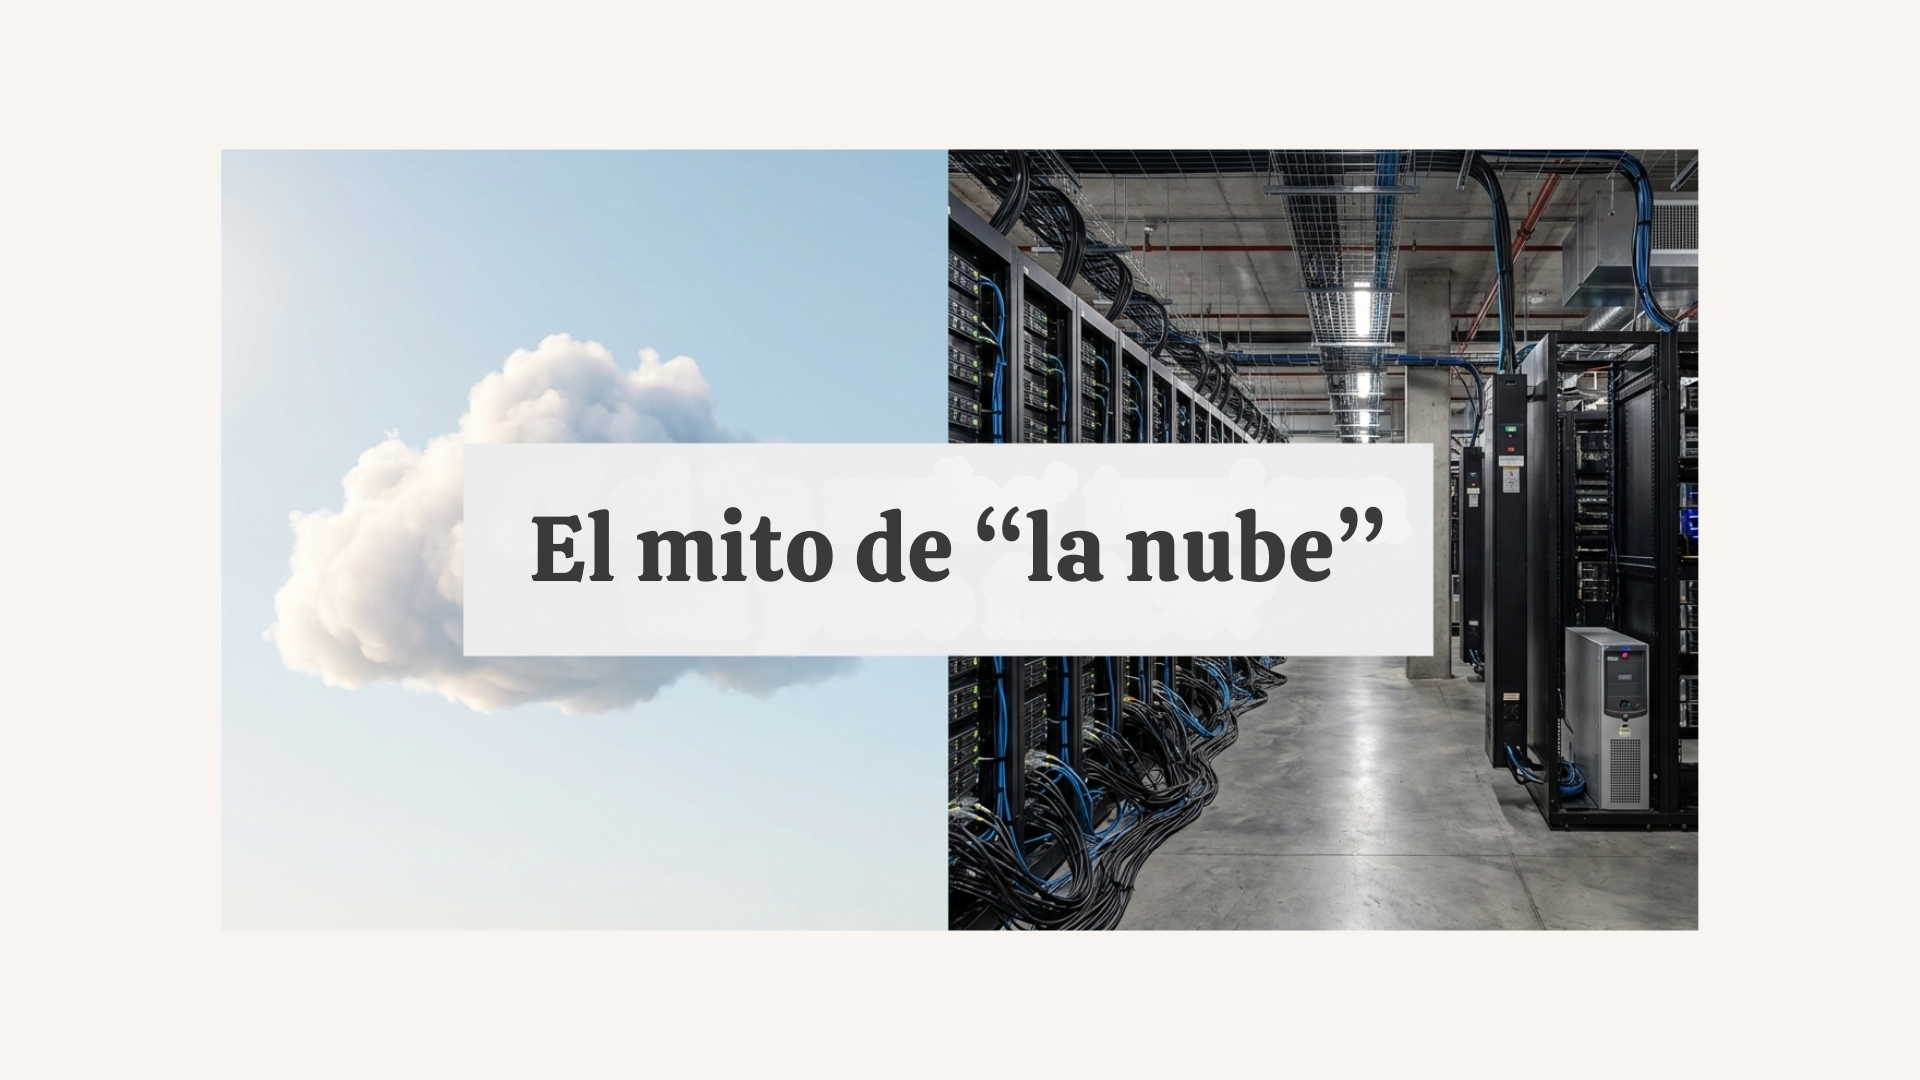
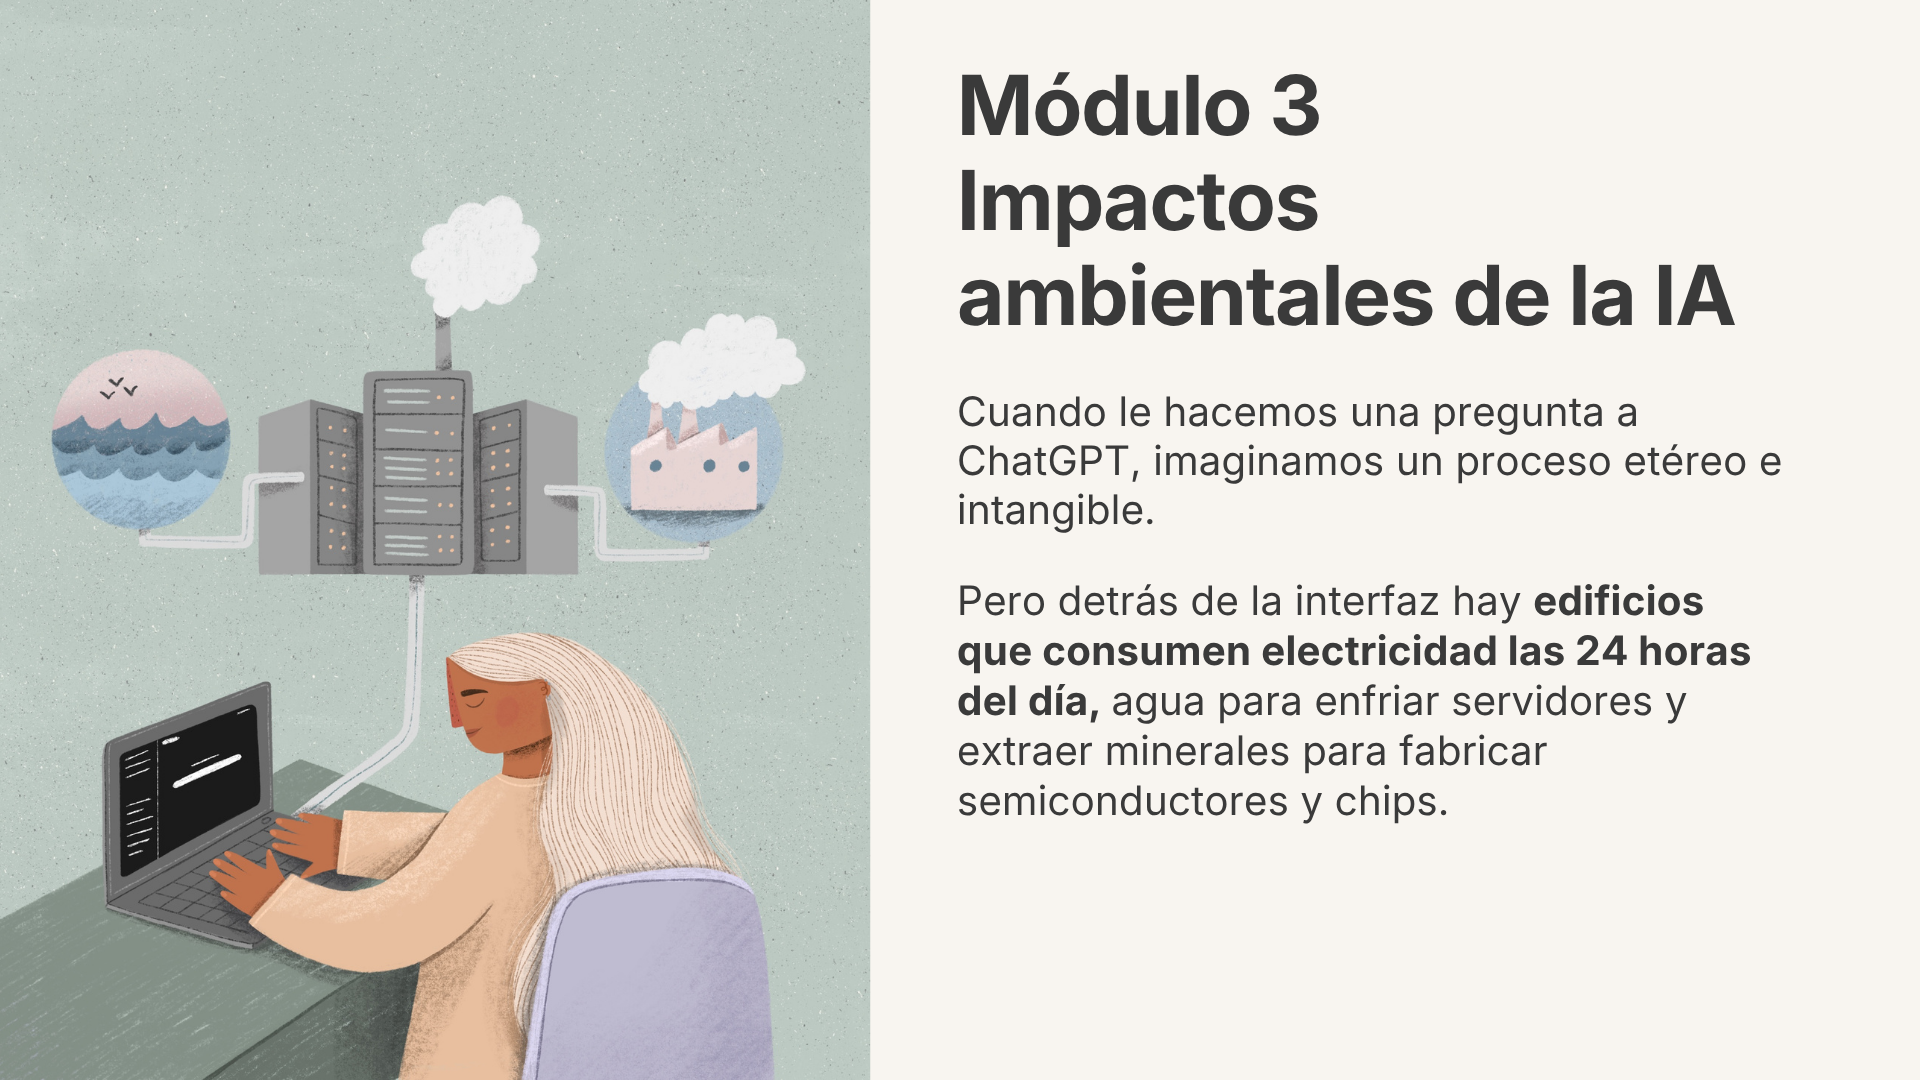
release(v2.1-m3): M3 Impactos ambientales disponible al publico
- Nuevo: docs/03-impactos-ambientales.md (audit completo, quiz energia centros de datos, checklist comprension, bloque Sasha Luccioni homologado, Acuerdo de Escazu + politica federal EE.UU. Trump 2025 en tabla)
- M2 actualizado: YouTube embed del Ep 2 Sesgos al final del modulo
- M1 actualizado: reorganizar imagen 00_Magia + assets 00 y 09 actualizados
- mkdocs.yml: M3 agregado al nav
- index.md: M3 cambiado de Proximamente a Disponible con link activo

diff --git a/docs/03-impactos-ambientales.md b/docs/03-impactos-ambientales.md
@@ -1,0 +1,274 @@
+# El mito de la nube: impactos ambientales de la IA
+
+!!! abstract "¿Cuál es la huella material de la IA?"
+    La IA no vive en una nube etérea: vive en edificios físicos que consumen **electricidad las 24 horas**, **agua para enfriar servidores** y **minerales extraídos en minas de todo el mundo**. Los centros de datos consumen ~1.5% del consumo eléctrico global y se proyecta que esa cifra se duplique para 2030.[^19] El costo no se distribuye igual: América Latina contribuye solo el 6.7% de las emisiones globales pero absorbe una parte importante de los costos ambientales de la infraestructura digital.[^25] **El objetivo de este módulo es ponerle cifras al “mito de la nube” (energía, agua, minerales, basura electrónica) y entender quién paga ese costo, cómo se distribuye y qué podemos hacer al respecto.**
+
+![El mito de la nube](images/09_MitoLaNube.png)
+
+## La infraestructura física detrás de lo digital
+
+Cuando la IA “aprende” o “responde”, todo ese proceso ocurre en edificios físicos conectados por cables submarinos. Casi el **100% del tráfico de internet** pasa por cables de fibra óptica tendidos en el fondo del océano.[^3] Esos cables conectan a los centros de datos, edificios que concentran la infraestructura informática necesaria para crear, ejecutar y proporcionar aplicaciones y servicios, entre ellos correr modelos de IA.[^35]
+
+!!! info "La demanda de centros de datos"
+    Existen aproximadamente **10,000 centros de datos en 164 países**.[^16] De estos, 1,189 son “hiperescala”, los más grandes, como los que operan Google, Amazon y Microsoft y la mitad de ellos (el 54%) están en Estados Unidos. América Latina tiene 251 centros de datos, concentrados en países como Brasil (37.2%), Chile (13.4%) y México (12.3%).[^17]
+
+Cada centro de datos requiere:
+
+- **Electricidad constante** para los servidores (las 24 horas, los 365 días del año)
+- **Agua** para los sistemas de enfriamiento
+- **Hardware** fabricado con minerales críticos como el galio, germanio, cobalto, litio, tantalio
+
+## Evaluar el ciclo de vida de la IA
+
+Para conocer la huella ambiental de la IA debemos considerar sus impactos a través de su ciclo de vida, que se compone de dos dimensiones, el software y hardware.[^15] El **ciclo de software** incluye la recolección de datos, el desarrollo de los modelos, entrenamiento, validación, despliegue, inferencia, mantenimiento y retiro. El **ciclo de hardware** abarca la producción de chips y GPUs, la construcción y operación de centros de datos, desde la extracción de materias primas, pasando por la manufactura y el transporte, hasta la operación, mantenimiento y disposición de basura electrónica.
+
+!!! warning "Los datos que tenemos (y los que no)"
+    Aunque existen estudios sobre el impacto ambiental de distintas etapas del ciclo de vida de la IA, **la investigación comprehensiva sigue siendo escasa**.[^15] Esto ha provocado la proliferación de estadísticas en medios de comunicación, muchas sin respaldo riguroso. Estimar con precisión el impacto ambiental de la IA es difícil por los retos de medición, particularmente la falta de datos sobre efectos indirectos. Para conocer los impactos en cada etapa y aspecto (minerales, energía, emisiones, agua y basura digital) se necesitan más y mejores datos.[^15] Los datos de este módulo son los mejores disponibles que pudimos encontrar, pero deben leerse con esa cautela.
+
+## ¿Cuánta energía consumen los centros de datos?
+
+En 2024, centros de datos a nivel mundial consumieron **415 TWh de electricidad,** que representa cerca del 1.5% del consumo eléctrico global. Para 2030, la Agencia Internacional de Energía proyecta que esta cifra se duplique, llegando a **945 TWh**.[^19] Esta cifra es ligeramente superior al consumo total de electricidad actual de todo Japón.[^19] Además, la energía necesaria para entrenar los modelos de frontera **se duplica cada año** (crecimiento de 2.1x anual), más rápido que las mejoras en eficiencia del hardware.[^37]
+
+El consumo de energía de los centros de datos es un problema. Pero el problema más profundo es **de dónde viene esa energía**. Casi la **mitad de la electricidad** que consumen los centros de datos en Estados Unidos proviene de centrales de combustibles fósiles.[^31] Cuando Meta anunció Hyperion, su centro de datos de IA en Luisiana, que consumirá **más del doble de energía que toda la ciudad de Nueva Orleans**, los reguladores aprobaron la construcción de **tres nuevas plantas de gas natural** para alimentarlo.[^31]
+
+<div class="quiz" data-correct="b" data-explanation="El problema m&aacute;s profundo es la fuente de la energ&iacute;a. Casi la mitad de la electricidad que consumen los centros de datos en EE.UU. viene de combustibles f&oacute;siles, y los reguladores ya est&aacute;n aprobando nuevas plantas de gas natural para alimentar centros como Meta Hyperion. La opci&oacute;n (a) trata el problema solo como escala, pero construir m&aacute;s plantas mueve el costo sin resolverlo. La opci&oacute;n (c) atiende un s&iacute;ntoma (eficiencia por consulta) en lugar de la causa estructural (la matriz energ&eacute;tica).">
+<p class="quiz-title">Ponte a prueba: En 2024 los centros de datos a nivel mundial consumieron <strong>415 TWh</strong> de electricidad (~1.5% del consumo global) y la AIE proyecta que esa cifra <strong>se duplique para 2030</strong>. Según el módulo, ¿cuál es el problema más profundo de este consumo?</p>
+<label class="quiz-option"><input type="radio" name="q-energia-centros" value="a"> La escala absoluta: para cubrir la demanda hay que construir más plantas eléctricas</label>
+<label class="quiz-option"><input type="radio" name="q-energia-centros" value="b"> De dónde viene esa electricidad: casi la mitad del consumo en EE.UU. proviene de combustibles fósiles</label>
+<label class="quiz-option"><input type="radio" name="q-energia-centros" value="c"> Que cada consulta individual a un modelo es muy ineficiente y debería optimizarse</label>
+<button class="quiz-check">Verificar</button>
+<div class="quiz-feedback"></div>
+</div>
+
+## ¿Cuánto contamina la IA?
+
+El sector TIC en su conjunto (centros de datos, redes, dispositivos) genera unas **700 millones de toneladas de CO2 equivalente (MtCO2e)** al año, lo que representa el **1.4% de las emisiones globales**.[^5] La Agencia Internacional de Energía (AIE) estima que los centros de datos son responsables de aproximadamente **180 millones de toneladas**, es decir, el **0.5% de las emisiones globales**.[^19] Puede parecer poco, pero la demanda energética de los centros de datos está creciendo rápidamente y se proyecta que se duplique para 2030.[^19][^30]
+
+!!! danger "Por qué cada emisión cuenta: el límite de los 1.5°C"
+    En 2024, las temperaturas globales superaron **1.5°C sobre niveles preindustriales durante 12 meses consecutivos**.[^13] Al ritmo actual, se proyecta alcanzar este umbral de forma permanente para **2029**.[^29] Para evitarlo, las emisiones de CO2 deben reducirse **45% para 2030 y alcanzar cero neto para 2050**, pero actualmente emitimos ~42 GtCO2 al año.[^2] La diferencia entre 1.5°C y 2°C significa **el doble de personas expuestas a sequías severas**, la pérdida de prácticamente **todos los arrecifes de coral**, y veranos árticos sin hielo.[^2] Por eso ese 0.5% no es “poco”: cada nueva fuente de emisiones cuenta, y la IA es una de las que más rápido crece.
+
+### ¿Cuánto contamina un modelo de lenguaje?
+
+Uno de los primeros estudios que puso el tema en la agenda pública fue *“Energy and Policy Considerations for Deep Learning in NLP”*, publicado en 2019. De acuerdo con esta investigación, entrenar un modelo NAS emitió **~284 toneladas de CO2**, equivalente a **cinco veces las emisiones de un auto durante toda su vida útil**, incluyendo su fabricación. Incluso entrenar un solo modelo BERT emitió tanto CO2 como un vuelo transatlántico.[^4]
+
+Un estudio posterior de Luccioni, Viguier y Ligozat (2022) demostró que la fuente de electricidad importa tanto o más que el tamaño del modelo.[^6] BLOOM (176B parámetros) consumió 433,196 kWh de energía, comparable a GPT-3. Pero porque se entrenó en Francia (donde el 70% de la electricidad es nuclear), emitió solo **25 toneladas de CO2** frente a las **502 toneladas de GPT-3** (entrenado con electricidad estadounidense). Si incluimos manufactura de hardware y consumo idle, el total de BLOOM sube a 50.5 toneladas, aun así, **10 veces menos que GPT-3**.[^6]
+
+??? example "Conoce más sobre Sasha Luccioni"
+    Sasha Luccioni es investigadora franco-canadiense y líder de clima en [Hugging Face](https://huggingface.co/sasha). Su trabajo ha sido pionero en medir las emisiones reales de modelos de IA: desde calcular la huella de carbono completa de BLOOM[^6] hasta demostrar que generar una imagen consume 1,450 veces más energía que clasificar un texto.[^14] Es una de las voces más visibles en la intersección de IA y cambio climático.
+
+La inferencia, es decir, cada vez que preguntamos algo a ChatGPT, representa más del 80% del consumo eléctrico total de la IA. Amazon estima que hasta el **90% de los costos de ML en producción** se deben a la inferencia, no al entrenamiento.[^5] Para modelos populares como ChatGPT, bastaron semanas o meses de uso para que las emisiones acumuladas por inferencia superaran las del entrenamiento.[^7]
+
+Las emisiones anuales por inferencia de un solo modelo (GPT-4o) se estiman entre **138,125 y 163,441 toneladas de CO2 equivalente por año**. [^20] Estas cifras son comparables a las
+emisiones anuales de 30,000 automóviles de gasolina o a las emisiones acumuladas de aproximadamente 2,300 vuelos transatlánticos entre Boston y Londres. [^20]
+
+Pero no todas las tareas de IA consumen lo mismo. Un estudio de Luccioni et al. (2024) midió el consumo de 88 modelos y encontró que **generar una imagen consume 1,450 veces más energía que clasificar un texto**.[^14] Además, los modelos multipropósito (como ChatGPT) son **33 veces más caros** energéticamente que modelos especializados para la misma tarea.[^14]
+
+La mayoría de estas cifras son estimaciones de investigadores independientes, no datos oficiales. De las principales compañías de IA, la gran mayoría no divulga métricas ambientales desagregadas sobre su consumo energético, emisiones de carbono o uso de agua.[^36] Las personas que investigan, la prensa y la sociedad civil deben inferir el consumo a partir de datos indirectos como envíos de chips, eficiencia estimada y composición de cargas de trabajo, lo que explica por qué las estimaciones varían ampliamente entre estudios.[^36] Y cuando las empresas sí publican datos, no siempre reflejan la realidad.
+
+!!! info "La Paradoja de Jevons: más eficiente no significa menos impacto"
+    La **Paradoja de Jevons** (1865) establece que cuando una tecnología se vuelve más eficiente, su uso total tiende a aumentar, no a disminuir. William Stanley Jevons observó que las mejoras en las máquinas de vapor no redujeron el consumo de carbón: lo aumentaron, porque hicieron que el carbón fuera viable para más usos.[^27] Lo mismo ocurre con la IA: Google reporta que la energía por consulta se redujo 33 veces en 12 meses y la huella de carbono por consulta 44 veces, pero su consumo total sigue creciendo porque el número de consultas crece más rápido que la eficiencia.[^26] La eficiencia tecnológica sola no resuelve el problema: hace falta políticas públicas y rendición de cuentas corporativa.
+
+### Huella de carbono y greenwashing
+
+Las grandes empresas tecnológicas se comprometieron públicamente a reducir sus emisiones en los próximos años, pero la demanda de energía de los centros de datos apunta hacia otra dirección:
+
+- **Microsoft** prometió ser “carbono negativo” para 2030, pero sus emisiones crecieron **29% desde 2020**, y su consumo eléctrico casi se triplicó.[^12]
+- **Google** prometió “net-zero” para 2030 y abandonó su compromiso de “neutralidad operativa de carbono” en 2023. Sus emisiones crecieron **casi 50% en cinco años**.[^12]
+
+!!! warning "¿Qué son los RECs y por qué importan?"
+    Las empresas tecnológicas afirman operar con energía renovable comprando Certificados de Energía Renovable (RECs). Es decir, compran créditos de alguien que produce energía verde en otro lugar, mientras sus centros de datos funcionan con carbón y gas natural de forma local; esto les permite reportar que son carbono neutrales o negativas, a pesar de que sus emisiones reales sigan aumentando. Es el equivalente a afirmar que reciclas porque compraste un bono de reciclaje de alguien en otro país, pero tirar cada vez más basura en tu propio país.[^12]
+
+Y el impacto no se limita a la energía y el carbono: la IA también consume cantidades cada vez más grandes de agua.
+
+## El agua que consume la IA
+
+El impacto de los centros de datos no se limita a la energía. Como vimos en el [Módulo 1](01-que-es-la-ia.md), los modelos de deep learning realizan miles de millones de operaciones matemáticas para ajustar sus parámetros, cada una de esas operaciones genera calor en los procesadores.
+
+Para evitar que los servidores se sobrecalienten, los centros de datos usan dos tipos de enfriamiento: **sistemas de aire acondicionado** (que consumen electricidad) o **enfriamiento con agua** (que consume agua directamente). Los sistemas de enfriamiento representan entre el **7% (centros hiperescala)** y el **30% (centros empresariales)** del consumo eléctrico total de un centro de datos.[^19] A nivel global, los centros de datos consumen alrededor de **560 mil millones de litros de agua por año**, y esto podría aumentar hasta alcanzar unos 1200 mil millones de litros al año en 2030.[^19]
+
+Para dimensionar el impacto por modelo: entrenar GPT-3 evaporó directamente **700,000 litros de agua limpia** solo en el enfriamiento on-site de los servidores. Incluyendo el agua utilizada para generar la electricidad necesaria, el total asciende a **5.4 millones de litros**.[^39] Y no solo el entrenamiento consume agua: en uso cotidiano, GPT-3 necesita una **botella de 500ml de agua por cada 10 a 50 respuestas**, dependiendo de la ubicación del centro de datos.[^39]
+
+### El caso de Querétaro, México
+
+Querétaro concentra el **65% de la capacidad de centros de datos de México**, con inversiones de AWS, Microsoft y Google Cloud.[^18] Al mismo tiempo, **17 de sus 18 municipios** experimentaron sequía moderada a severa en 2025.[^38] Residentes de Viborillas y Colón reportan recibir agua solo tres días por semana, y tanto las empresas como el gobierno estatal han negado solicitudes de información sobre uso de agua e impacto comunitario.[^24]
+
+Las preguntas de fondo son: ¿quién decide cómo se asigna el agua, un recurso con demanda inelástica para hogares y agricultura, cuando compite con inversión tecnológica extranjera? ¿a dónde se van los beneficios?
+
+## La IA no solo mina datos
+
+!!! quote ""
+    “Si el siglo XX funcionó con petróleo y acero, el siglo XXI funciona con cómputo y los minerales que lo alimentan.” — Jacob Helberg, Departamento de Estado de EE.UU.[^41]
+
+### La anatomía de un chip
+
+<!-- 🖼️ IMAGEN: Anatomía de un chip de IA
+     Archivo: images/13_AnatomiaChip.png
+     Flow prompt: "Hand-drawn style exploded diagram of an AI chip showing material layers: silicon (quartz sand), copper (connections), lithium (batteries), cobalt (energy storage), rare earth elements (magnets), gold (conductors). Each layer labeled with mineral name and origin region. Warm palette: peach (#E8C4A0), sage (#A8B5A0), lavender (#B8A9C8), sky (#89B8C8). Off-white background (#FAF8F5), dark ink text (#2C2825). Square format, educational, hand-drawn aesthetic."
+-->
+
+Cada chip de IA se compone de capas de materiales que provienen de minas alrededor del mundo: **arena de cuarzo** (silicio), **cobre** (conexiones), **litio** (baterías), **cobalto** (almacenamiento de energía), **tierras raras** (componentes magnéticos) y **oro** (conductores).[^40] Cada centro de datos necesita semiconductores, baterías, cobre e infraestructura energética, cada componente se rastrea hasta una mina.[^41]
+
+![Chip](images/13_AnatomiaChip.png)
+
+De 2001 a 2022, el número de chips vendidos se **cuadruplicó**, y la demanda no muestra señales de desaceleración.[^15] Además, la IA y la transición energética compiten por los mismos recursos escasos: los minerales necesarios para la digitalización son prácticamente los mismos que se requieren para la transición a energías limpias.[^15]
+
+### Del chip a la mina: los impactos
+
+La minería de estos materiales contamina agua y aire, degrada la biodiversidad y genera emisiones de gases de efecto invernadero. El **52% de las minas de cobre** están en zonas de alto estrés hídrico y el reciclaje de estos materiales es bajo: **46% para cobre** y apenas **1% para tierras raras**.[^15]
+
+Para 2050 se necesitarán **6 nuevas minas grandes de cobre al año** solo para satisfacer la demanda. Y el impacto no es hipotético: el **92% de los sistemas de tratamiento de agua** cerca de minas de cobre ya han fallado, contaminando agua subterránea.[^40]
+
+!!! example "Litio en América Latina"
+    El “Triángulo del Litio” (Chile, Argentina, Bolivia) contiene las mayores reservas de litio del mundo. La minería en el Salar de Atacama ha causado una **reducción del 30% en los niveles de agua**, con pérdida de vegetación y declive en poblaciones de flamencos. Más de **400 comunidades indígenas** habitan las regiones impactadas.[^10] México ocupa el **9no lugar mundial en reservas de litio** (1.7 millones de toneladas) y nacionalizó el mineral en 2022 con la creación de LitioMx.[^10]
+
+### Basura electrónica (e-waste)
+
+A nivel global se generan **62 millones de toneladas de basura electrónica al año**, y solo el **22.3% se recicla formalmente**.[^11] La IA agrava este problema:
+
+- Las GPUs de alto rendimiento tienen una vida útil de **1 a 3 años** en ambientes de IA (versus 3-5 años en servidores tradicionales)[^11]
+- Se estima que las tecnologías de IA generarán **2.5 millones de toneladas de basura electrónica al año para 2030**[^11]
+- En 2024, una sola empresa envió más de 3.7 millones de GPUs, un millón más que el año anterior[^20]
+
+## ¿Qué se está haciendo?
+
+El panorama es complejo, pero no está fuera de nuestro control. Necesitamos más y mejores polítcias públicas que pongan al centro a las personas y las comunidades para reducir el impacto ambiental de las tecnologías digitales y la IA.
+
+### Iniciativas y regulación internacional
+
+| Iniciativa | Qué propone | Estado |
+|------------|-------------|--------|
+| **Acuerdo de Escazú** (LatAm, desde 2021) | Garantiza derechos de acceso a información ambiental, participación pública y justicia. Herramienta legal clave en los fallos contra centros de datos de Google en Chile y Uruguay[^32] | Vigente |
+| **Ley de IA de la UE** (Reg. 2024/1689) | Documentación de consumo energético, transparencia y códigos de conducta sobre sostenibilidad ambiental | Aplicable desde agosto 2026 |
+| **Política de Centros de Datos de Brasil** (sept 2025) | Energía renovable o limpia, altos estándares de eficiencia hídrica, incentivos fiscales | Vigente |
+| **COP30** (Belém, Brasil, nov 2025) | Primera cumbre climática en integrar la IA como tema central. Propuestas: pruebas de interés público obligatorias, 100% energía renovable in situ | En discusión |
+| **Política federal EE.UU.** (Trump, 2025) | Revocó las directrices previas de IA y, con el plan *Winning the AI Race* (jul 2025), acelera permisos de centros de datos eliminando los requisitos de reporte climático y DEI previos.[^43] | Desregulación activa |
+
+### Técnicas para hacer más eficientes los modelos
+
+- **Destilación de modelos:** Crear modelos más pequeños usando modelos grandes como “maestros”. DistilBERT logra ~60% más velocidad con ~40% menos parámetros y ~97% del rendimiento original.[^28]
+- **Compresión de modelos:** Puede reducir el consumo energético 10-100 veces sin pérdida significativa de precisión.[^28]
+
+### Acciones individuales y colectivas
+
+1. **Escribir mejores prompts:** Prompts claros y específicos reducen el cómputo necesario (los reenvíos y reintentaciones son especialmente costosos)
+2. **Cuestionar la necesidad:** ¿Es realmente necesaria la IA para esta tarea, o una búsqueda simple o el propio razonamiento logra lo mismo con menos energía?
+3. **Usar modelos más pequeños:** Para tareas simples, modelos anteriores o más chicos funcionan bien con menos recursos. Usar un modelo especializado en lugar de uno multipropósito puede reducir el consumo energético **33 veces**[^14]
+4. **Organizarnos colectivamente:** Las decisiones individuales importan, pero son insuficientes sin política pública y rendición de cuentas corporativa
+
+!!! tip "DataCenterBoom: investigación latinoamericana sobre centros de datos"
+    **[DataCenterBoom](https://datacenterboom.net/)** es una iniciativa del Instituto Latinoamericano de Terraformación que investiga y documenta los impactos socioambientales de los centros de datos en América Latina. Sus publicaciones incluyen análisis técnicos sobre consumo de agua y cálculo de emisiones, así como un informe sobre los **casos judiciales contra Google en Chile y Uruguay**, donde comunidades locales lograron, a través de los tribunales, que se anularan permisos ambientales y se obligara a revelar datos de consumo hídrico que la empresa había clasificado como “secreto industrial”.[^32] El Acuerdo de Escazú fue una herramienta legal clave en ambos casos. DataCenterBoom mapea proyectos de centros de datos en Brasil, Chile y México, proporcionando información que las propias empresas y gobiernos no hacen pública.
+
+## **De la nube a la tierra: ¿qué sigue?**
+
+La IA no es etérea ni intangible. Detrás de cada consulta, cada imagen generada y cada modelo entrenado hay edificios que consumen electricidad las 24 horas, agua que se evapora para enfriar servidores, y minerales extraídos en condiciones que muchas veces violan derechos humanos.
+
+La transparencia es el primer paso. Sin datos confiables sobre consumo de energía, agua y emisiones, no es posible regular, exigir cuentas ni tomar decisiones informadas.
+
+!!! info "Lo que viene"
+    **Módulo 4: IA y el futuro del trabajo.** ¿Qué empleos están en riesgo, cuáles se transforman y cuáles se crean? Especialmente para economistas en América Latina, ¿cómo pensar en la IA como herramienta y no como amenaza?
+
+<div class="checklist">
+<p class="checklist-title">Checklist de comprensión</p>
+<p class="checklist-subtitle">Antes de pasar al siguiente módulo, verifica que puedes:</p>
+<label class="checklist-item"><input type="checkbox"> Explicar por qué “la nube” es un mito y describir la infraestructura física detrás de un servicio de IA</label>
+<label class="checklist-item"><input type="checkbox"> Citar al menos dos cifras concretas (energía, agua o emisiones) que dimensionen el costo ambiental de la IA</label>
+<label class="checklist-item"><input type="checkbox"> Distinguir entre la Paradoja de Jevons y el greenwashing (RECs) como problemas distintos pero relacionados</label>
+<label class="checklist-item"><input type="checkbox"> Identificar al menos un caso concreto de impacto ambiental de la IA en América Latina (agua, litio o minería)</label>
+<p class="checklist-progress">Progreso: <span class="checklist-count">0</span>/4</p>
+</div>
+
+??? abstract "Glosario de conceptos"
+    | Concepto | Definición breve |
+    |----------|-----------------|
+    | Centro de datos (*data center*) | Instalación física con servidores, sistemas de almacenamiento y redes que procesan y alojan datos digitales. Requiere electricidad constante y grandes volúmenes de agua para enfriamiento |
+    | Inferencia | Cuando un modelo ya entrenado aplica lo aprendido a datos nuevos. Representa el 80% del consumo eléctrico total de la IA |
+    | PUE (*Power Usage Effectiveness*) | Métrica de eficiencia energética de un centro de datos. Un PUE de 1.0 sería perfecto; la industria promedia ~1.5 |
+    | RECs (*Renewable Energy Certificates*) | Certificados de Energía Renovable. Permiten a una empresa afirmar que opera con energía renovable comprando créditos de otro productor, aunque sus instalaciones usen carbón o gas |
+    | Greenwashing | Práctica de afirmar compromisos ambientales sin cambios reales en el impacto. En el contexto de la IA, el uso de RECs en lugar de energía renovable genuina |
+    | Paradoja de Jevons | Principio económico (1865): cuando una tecnología se vuelve más eficiente, su uso total tiende a aumentar, no a disminuir |
+    | E-waste (*basura electrónica*) | Residuos de equipos eléctricos y electrónicos. Las GPUs de IA tienen vida útil de 1-3 años y se reemplazan con frecuencia |
+    | Triángulo del Litio | Región de Chile, Argentina y Bolivia con las mayores reservas de litio del mundo, esencial para baterías y hardware de IA |
+    | Colonialismo digital | Patrón estructural donde los datos fluyen al Norte Global, las decisiones se toman remotamente y los costos ambientales se externalizan al Sur Global |
+    | Externalidades negativas | Costos generados por una actividad económica que son absorbidos por terceros no involucrados en la transacción. El costo ambiental de la IA es una externalidad para las comunidades donde se instalan los centros de datos |
+    | Hiperescala (*hyperscale*) | Centros de datos de muy gran tamaño operados por empresas como Amazon, Google o Microsoft, con capacidades de cómputo masivas |
+    | Destilación de modelos | Técnica para crear modelos más pequeños y eficientes a partir de modelos grandes, manteniendo la mayor parte del rendimiento original |
+    | WUE (*Water Usage Effectiveness*) | Métrica de eficiencia hídrica de un centro de datos, en litros por kWh. El promedio de la industria es 1.9 L/kWh; el ideal (0) solo se logra con enfriamiento por aire seco |
+    | Acuerdo de Escazú | Tratado regional latinoamericano que garantiza derechos de acceso a la información ambiental, participación pública y justicia en asuntos ambientales. Herramienta legal clave en casos contra centros de datos |
+
+
+??? tip "Recursos para seguir aprendiendo"
+    **Investigación periodística:**
+
+    - Context/Thomson Reuters — “Thirsty Data Centres in Mexico”: <https://www.context.news/ai/thirsty-data-centres-spring-up-in-water-poor-mexican-town>
+    - Context — “Resistance Blooms in Mexico’s Data Centre Valley”: <https://www.context.news/ai/long-read/resistance-blooms-in-mexicos-data-centre-valley>
+    - NPR — “AI Brings Soaring Emissions” (2024): <https://www.npr.org/2024/07/12/g-s1-9545/ai-brings-soaring-emissions-for-google-and-microsoft-a-major-contributor-to-climate-change>
+
+    **Reportes institucionales:**
+
+    - IEA — “Energy and AI” (2025): <https://www.iea.org/reports/energy-and-ai/executive-summary>
+    - UNEP — “AI Has an Environmental Problem”: <https://www.unep.org/news-and-stories/story/ai-has-environmental-problem-heres-what-world-can-do-about>
+    - Global E-waste Monitor (2024): <https://www.unep.org/resources/global-e-waste-monitor-2024>
+
+    **Análisis sobre la Paradoja de Jevons y IA:**
+
+    - MIT Technology Review — “DeepSeek and Energy” (2025): <https://www.technologyreview.com/2025/01/31/1110776/deepseek-might-not-be-such-good-news-for-energy-after-all/>
+    - NPR — “AI, DeepSeek, and Jevons Paradox” (2025): <https://www.npr.org/sections/planet-money/2025/02/04/g-s1-46018/ai-deepseek-economics-jevons-paradox>
+
+    **Minerales y derechos humanos:**
+
+    - Amnistía Internacional — “This Is What We Die For”: <https://www.amnestyusa.org/reports/this-is-what-we-die-for-human-rights-abuses-in-the-democratic-republic-of-the-congo-power-the-global-trade-in-cobalt/>
+    - Mongabay — “Lithium Mining in Atacama” (2024): <https://news.mongabay.com/2024/12/as-lithium-mining-bleeds-atacama-salt-flat-dry-indigenous-communities-hit-back/>
+    - CSIS — “From Mine to Microchip” (2024): <https://www.csis.org/analysis/mine-microchip>
+
+    **Justicia ambiental en LatAm:**
+
+    - Heinrich Böll Stiftung — “COP30, AI, Climate Justice”: <https://br.boell.org/en/2025/10/14/cop30-ai-climate-justice-ally-or-new-face-extractivist-model>
+    - **“Atlas of AI” — Kate Crawford (2021)** — Mapea la cadena de suministro material de la IA
+    - DataCenterBoom — Base de datos sobre impactos de centros de datos en América Latina (Brasil, Chile, México): <https://datacenterboom.net/>
+
+---
+
+## Referencias
+
+[^1]: Amnistía Internacional (2016). “This Is What We Die For: Human Rights Abuses in the DRC Power the Global Trade in Cobalt.” <https://www.amnestyusa.org/reports/this-is-what-we-die-for-human-rights-abuses-in-the-democratic-republic-of-the-congo-power-the-global-trade-in-cobalt/>
+[^2]: IPCC (2018). “Global Warming of 1.5°C — Summary for Policymakers.” <https://www.ipcc.ch/sr15/chapter/spm/>
+[^3]: The New York Times. (2019). “How the Internet Travels Across Oceans”.  https://www.nytimes.com/interactive/2019/03/10/technology/internet-cables-oceans.html
+[^4]: Strubell, E., Ganesh, A. & McCallum, A. (2019). “Energy and Policy Considerations for Deep Learning in NLP.” *Proceedings of the 57th Annual Meeting of the ACL*, pp. 3645–3650. <https://aclanthology.org/P19-1355/>
+[^5]: Kaack, L.H., Donti, P.L., Strubell, E., Kamiya, G., Creutzig, F. & Rolnick, D. (2021). “Aligning artificial intelligence with climate change mitigation.” Preprint. <https://hal.science/hal-03368037>
+[^6]: Luccioni, A.S., Viguier, S. & Ligozat, A.-L. (2022). “Estimating the Carbon Footprint of BLOOM, a 176B Parameter Language Model.” *arXiv preprint arXiv:2211.02001*. <https://arxiv.org/abs/2211.02001>
+[^7]: Climate Impact Partners (2024). “Carbon Footprint of AI.” <https://www.climateimpact.com/news-insights/insights/carbon-footprint-of-ai/>
+[^8]: Epoch AI (2024). Energy consumption of AI model training.
+[^9]: Dgtl Infra (2024). Data center water consumption statistics.
+[^10]: Mongabay (2024). “As Lithium Mining Bleeds Atacama Salt Flat Dry, Indigenous Communities Hit Back.” <https://news.mongabay.com/2024/12/as-lithium-mining-bleeds-atacama-salt-flat-dry-indigenous-communities-hit-back/>
+[^11]: UNEP / Global E-waste Monitor (2024). <https://www.unep.org/resources/global-e-waste-monitor-2024>
+[^12]: NPR (2024). “AI Brings Soaring Emissions for Google and Microsoft.” <https://www.npr.org/2024/07/12/g-s1-9545/ai-brings-soaring-emissions-for-google-and-microsoft-a-major-contributor-to-climate-change>
+[^13]: Copernicus Climate Change Service (2024). “Why do we keep talking about 1.5°C and 2°C above the pre-industrial era?” <https://climate.copernicus.eu/why-do-we-keep-talking-about-15degc-and-2degc-above-pre-industrial-era>
+[^14]: Luccioni, A.S., Jernite, Y. & Strubell, E. (2024). “Power Hungry Processing: Watts Driving the Cost of AI Deployment?” *ACM FAccT ’24*, pp. 85–99. <https://arxiv.org/abs/2311.16863>
+[^15]: UNEP (2024). “Artificial Intelligence (AI) end-to-end: The environmental impact of the full AI life cycle needs to be comprehensively assessed.” <https://wedocs.unep.org/rest/api/core/bitstreams/07b3c8fc-bd30-4b92-b5f4-d665e927b59d/content>
+[^16]: Cargoson (2025). Data center statistics. Global data center count.
+[^17]: Brightlio (Q1 2025). Global hyperscale data center inventory.
+[^18]: MEXDC / Prodensa (2025). “Data Centers in Mexico.” <https://www.prodensa.com/insights/blog/data-centers-in-mexico>
+[^19]: IEA (2025). “Energy and AI.” <https://www.iea.org/reports/energy-and-ai/ai-and-climate-change>
+[^20]: ArXiv (2025). GPT-4o inference emissions and GPU deployment data. <https://arxiv.org/abs/2501.16548>
+[^21]: Sam Altman. The Gentle Singularity. <https://blog.samaltman.com/the-gentle-singularity>
+[^22]: Digital Information World (2025) / Fast Company (2025) / The Invading Sea (2025). Big Tech water consumption reports.
+[^23]: Context (2025). “Thirsty Data Centres Spring Up in Water-Poor Mexican Town.” <https://www.context.news/ai/thirsty-data-centres-spring-up-in-water-poor-mexican-town>
+[^24]: Context (2025). “Resistance Blooms in Mexico’s Data Centre Valley.” <https://www.context.news/ai/long-read/resistance-blooms-in-mexicos-data-centre-valley>
+[^25]: Heinrich Böll Stiftung (2025). “COP30, AI and Climate Justice.” <https://br.boell.org/en/2025/10/14/cop30-ai-climate-justice-ally-or-new-face-extractivist-model>
+[^26]: MIT Technology Review (2025). “DeepSeek Might Not Be Such Good News for Energy After All.” <https://www.technologyreview.com/2025/01/31/1110776/deepseek-might-not-be-such-good-news-for-energy-after-all/>
+[^27]: NPR Planet Money (2025). “AI, DeepSeek, and the Economics of the Jevons Paradox.” <https://www.npr.org/sections/planet-money/2025/02/04/g-s1-46018/ai-deepseek-economics-jevons-paradox>
+[^28]: Google Cloud (2025). Model compression and distillation techniques.
+[^29]: Copernicus Climate Change Service (2025). “Rapid approach of the 1.5°C global warming threshold of the Paris Agreement.” <https://climate.copernicus.eu/rapid-approach-15degc-global-warming-threshold-paris-agreement>
+[^30]: IEA (2025). “Electricity 2025 — Emissions.” <https://www.iea.org/reports/electricity-2025/emissions>
+[^31]: Gorey, J. (2025). “Data Drain: The Land and Water Impacts of the AI Boom.” *Lincoln Institute of Land Policy, Land Lines Magazine*. <https://www.lincolninst.edu/publications/land-lines-magazine/articles/land-water-impacts-data-centers/>
+[^32]: Vallejos, R. (2025). “Los data centers llegan a tribunales en América Latina: Análisis de los fallos de la justicia sobre los data centers de Google en Chile y Uruguay.” *DataCenterBoom / Instituto Latinoamericano de Terraformación*. <https://datacenterboom.net/wp-content/uploads/2025/11/Los-data-centers-llegan-a-tribunales-en-America-Latina-1.pdf>
+[^33]: DataCenterBoom (2025). “¿Cómo se calculan las emisiones de gases invernadero de un centro de datos?” Basado en Uptime Institute Global Survey of IT and Data Center Managers (2024). <https://datacenterboom.net/>
+[^34]: CSIS (2024). “From Mine to Microchip: Building a Critical Mineral Strategy for Semiconductors.” Análisis. <https://www.csis.org/analysis/mine-microchip>
+[^35]: IBM. “¿Qué es un data center?”. <https://www.ibm.com/mx-es/think/topics/data-centers>
+[^36]: Federation of American Scientists (2025). “Measuring AI’s Energy/Environmental Footprint to Access Impacts.” <https://fas.org/publication/measuring-and-standardizing-ais-energy-footprint/>
+[^37]: Emberson, L. & Rahman, R. (2024). “The power required to train frontier AI models is doubling annually.” Epoch AI. <https://epoch.ai/data-insights/power-usage-trend>
+[^38]: El Economista, México. “# Sequía moderada cubre 94.4% de los municipios de Querétaro”. <https://www.eleconomista.com.mx/estados/sequia-moderada-cubre-94-4-municipios-queretaro-20250421-755758.html>
+[^39]: Li, P., Yang, J., Islam, M.A. & Ren, S. (2023). “Making AI Less ‘Thirsty’: Uncovering and Addressing the Secret Water Footprint of AI Models.” arXiv:2304.03271v5. <https://arxiv.org/abs/2304.03271>
+[^40]: Chance, H. & Hammersley, M.M. (2024). “AI Is Mining More Than Data.” *Vermont Journal of Environmental Law*. <https://vjel.vermontlaw.edu/top-ten/2025-top-ten/2024/12/ai-is-mining-more-than-data/>
+[^41]: Lipstein, H. & Kneese, T. (2026). “US Critical Mineral Aggression Abroad Connected to Data Center Fights at Home.” *Tech Policy Press*. <https://www.techpolicy.press/us-critical-mineral-aggression-abroad-connected-to-data-center-fights-at-home/>
+[^43]: The White House (23 jul 2025). “Fact Sheet: President Donald J. Trump Accelerates Federal Permitting of Data Center Infrastructure.” <https://www.whitehouse.gov/fact-sheets/2025/07/fact-sheet-president-donald-j-trump-accelerates-federal-permitting-of-data-center-infrastructure/>

diff --git a/docs/02-sesgos-algoritmicos.md b/docs/02-sesgos-algoritmicos.md
@@ -175,6 +175,12 @@ Reconocer los sesgos algorítmicos no significa rechazar la IA, sino exigir que 
     - **“Algorithms of Oppression” — Safiya Umoja Noble (2018)** — Sesgo racial en motores de búsqueda
     - **Anthropic Courses — Prompt Evaluations:** <https://github.com/anthropics/courses/tree/master/prompt_evaluations> — Curso gratuito (9 lecciones) para aprender a evaluar sistemáticamente los resultados de modelos de IA[^28]
 
+¿Prefieres formato podcast? En este episodio de Hijas de Internet de la serie “Descifrando la IA” profundizamos sobre los sesgos algorítmicos, el benchmark SESGO para español y cómo cada modelo arrastra prejuicios distintos en nuestro idioma.
+
+<div class="video-embed">
+<iframe src="https://www.youtube.com/embed/Vr-7RHSRYMU" title="Descifrando la IA — Sesgos algorítmicos" frameborder="0" allow="accelerometer; autoplay; clipboard-write; encrypted-media; gyroscope; picture-in-picture; web-share" referrerpolicy="strict-origin-when-cross-origin" allowfullscreen></iframe>
+</div>
+
 ---
 
 ## Referencias

diff --git a/docs/01-que-es-la-ia.md b/docs/01-que-es-la-ia.md
@@ -3,11 +3,11 @@
 !!! abstract "¿Qué es la IA?"
     La Inteligencia Artificial (IA) es el desarrollo de sistemas informáticos capaces de realizar tareas asociadas a funciones cognitivas humanas, como interpretar el habla, identificar patrones, hacer predicciones y resolver problemas. Se compone de varias tecnologías: el aprendizaje automático (Machine Learning), el aprendizaje profundo (Deep Learning) y el procesamiento de lenguaje natural (Natural Language Processing o NLP), entre otras. **No es magia**: es un conjunto de tecnologías que funcionan con matemáticas y modelos estadísticos que todas y todos tenemos la capacidad de entender.
 
+![La IA no es magia](images/00_Magia.png)
+
 Hoy, usamos tecnologías de Inteligencia Artificial (IA) todos los días. Las redes sociales (TikTok, Instagram, Facebook) usan algoritmos de IA para decidir qué contenido mostrar. Netflix y Spotify aprenden de las series y películas que vemos.[^2] Google Maps predice tráfico con datos de millones de teléfonos.[^3] Los filtros de Snapchat e Instagram usan visión por computadora para identificar los rasgos faciales en tiempo real, lo que les permite aplicar máscaras y efectos digitales en tu rostro. [^3] 
 
 En este módulo, podrás entender qué es la Inteligencia Artificial, cómo funcionan las tecnologías detrás de ellas y profundizar sobre los modelos de lenguaje y otros conceptos clave que es necesario entender cuando usamos herramientas de IA. **El principal objetivo es entender que la IA no es magia**, es un conjunto de tecnologías que funcionan con matemáticas y modelos estadísticos que todas y todos tenemos la capacidad de entender.
-
-![La IA no es magia](images/00_Magia.png)
 
 
 ## ¿Qué es la Inteligencia Artificial?

diff --git a/docs/index.md b/docs/index.md
@@ -16,7 +16,7 @@ La wiki se libera **módulo por módulo, junto con los episodios del podcast**. 
 | --- | ---------------------------------------------------- | --------------- | ---------------------------------------------------------------------- |
 | 1   | **[Qué es la IA](01-que-es-la-ia.md)**               | Disponible      | Definiciones, cómo funcionan los modelos y conceptos clave             |
 | 2   | **[Sesgos algorítmicos](02-sesgos-algoritmicos.md)** | Disponible      | Cómo los datos y algoritmos reproducen sesgos presentes en la sociedad |
-| 3   | Impactos ambientales                            | Próximamente    | El costo material de entrenar modelos de IA                            |
+| 3   | **[Impactos ambientales](03-impactos-ambientales.md)** | Disponible | El costo material de entrenar modelos de IA |
 | 4   | Futuro del trabajo                              | Próximamente    | Automatización, nuevos perfiles y el rol humano                        |
 | 5   | Herramientas y uso responsable                  | Próximamente    | Cómo usar IA de forma crítica e informada                              |
 |     | **[Cómo hicimos esta wiki](como-se-hizo.md)**   | Disponible      | Transparencia sobre el uso de IA en la producción de este proyecto     |